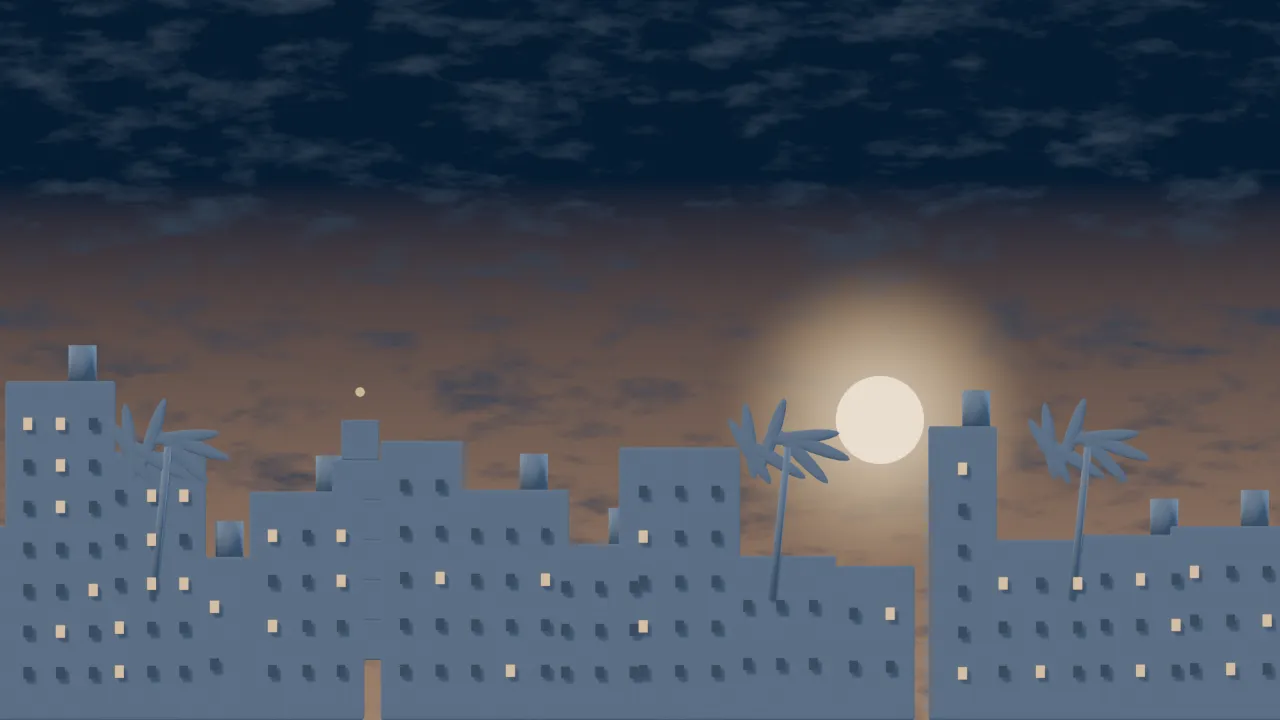
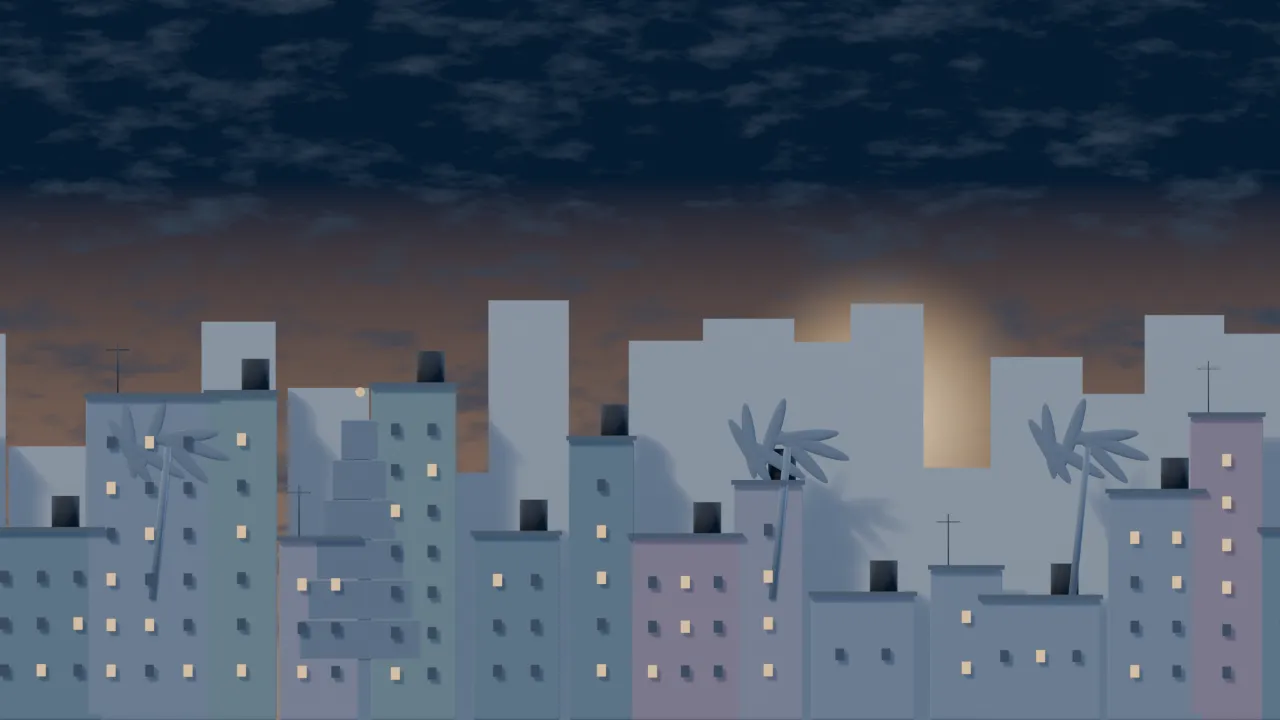
kitplat: closer camera (18 tiles), deeper monsoon skyline, scalloped awnings

Changed region(s): [[0.0, 0.3972, 1.0, 1.0], [0.0, 0.8556, 0.1562, 0.8861], [0.1562, 0.825, 0.1875, 0.8556]]

diff --git a/apps/web/src/games/kitplat/camera.ts b/apps/web/src/games/kitplat/camera.ts
@@ -4,7 +4,7 @@
  * arena). Heroes it cannot fit are reported as stragglers; the world bubbles or leashes them. Pure.
  */
 
-export const VIEW_W = 20;            // tiles across at zoom 1 (16:9)
+export const VIEW_W = 18;            // tiles across at zoom 1 (16:9)
 export const VIEW_H = VIEW_W * 9 / 16;
 export const MAX_ZOOM = 1.3;
 

diff --git a/tools/blender/kitplat/plat_scenery.py b/tools/blender/kitplat/plat_scenery.py
@@ -49,19 +49,29 @@ def monsoon_sky():
 
 def monsoon_far():
     col = haze("#5f6f86", 0.5)
+    tones = ["#6d7d94", "#7a7f96", "#687f8c", "#80788e", "#5f7488"]
     lit = "#ffcf8a"
+    # a far, paler row first, then the main skyline
+    for x0 in spread(18):
+        w, h = random.uniform(1.4, 2.6), random.uniform(5.5, 10.5)
+        rep(lambda x, w=w, h=h: P.box(haze("#8a96a8", 0.6), (x, 7.5, h / 2), (w, 1, h), bevel=0), [x0])
     xs = spread(14)
     for x0 in xs:
         w = random.uniform(1.6, 3.2)
         h = random.uniform(3.0, 8.5)
         seed = random.random()
+        tone = haze(random.choice(tones), 0.5)
 
-        def b(x, w=w, h=h, seed=seed):
+        def b(x, w=w, h=h, seed=seed, tone=tone):
             random.seed(int(seed * 1e6))
-            P.box(col, (x, 6, h / 2), (w, 1, h), bevel=0.02)
-            windows(x - w / 2 + 0.15, w - 0.3, 0.6, h - 1.2, 5.4, lit=lit, dark="#4a5870", chance=0.3, size=(0.22, 0.3))
-            if seed > 0.5:
-                P.cyl(col, (x + w * 0.2, 6, h + 0.45), 0.35, 0.9, verts=16)
+            P.box(tone, (x, 6, h / 2), (w, 1, h), bevel=0.02)
+            P.box(haze("#4f5d70", 0.4), (x, 5.9, h + 0.06), (w + 0.12, 1.1, 0.12), bevel=0)
+            windows(x - w / 2 + 0.15, w - 0.3, 0.6, h - 1.2, 5.4, lit=lit, dark="#4a5870", chance=0.42, size=(0.22, 0.3))
+            if seed > 0.45:
+                P.cyl(haze("#2f3540", 0.3), (x + w * 0.2, 6, h + 0.45), 0.35, 0.9, verts=16)
+            if seed < 0.4:
+                P.cyl(haze("#3a4250", 0.3), (x - w * 0.25, 6, h + 0.7), 0.02, 1.4, verts=6)
+                P.cyl(haze("#3a4250", 0.3), (x - w * 0.25, 6, h + 1.2), 0.012, 0.6, rot=(0, 90, 0), verts=6)
         rep(b, [x0])
     # a temple tower and palms on the skyline
     def gopuram(x):

diff --git a/tools/blender/kitplat/plat_world.py b/tools/blender/kitplat/plat_world.py
@@ -133,10 +133,11 @@ class Monsoon(World):
         x0 = -0.1 if side in "ls" else 0
         x1 = 1.1 if side in "rs" else 1
         xa, xb = (x0 if side in "ls" else -2), (x1 if side in "rs" else 3)
-        ob = P.box(self.m_awn, ((xa + xb) / 2, -0.1, 0.95), (xb - xa, 1.0, 0.07), rot=(-12, 0, 0), bevel=0.01)
+        ob = P.box(self.m_awn, ((xa + xb) / 2, -0.1, 0.96), (xb - xa, 1.0, 0.07), rot=(-12, 0, 0), bevel=0.01)
         P.bake(ob)
-        for x in wrapped([0.125 + 0.25 * i for i in range(16)], xa, xb):
-            P.bake(P.cyl(self.m_awn, (x, -0.6, 0.86), 0.125, 0.04, rot=(90, 0, 0), verts=16))
+        bx(self.m_awn, xa, xb, 0.84, 0.99, y0=-0.66, y1=-0.6, bevel=0.005)          # the valance
+        for x in wrapped([0.125 + 0.25 * i for i in range(16)], xa, xb):             # scallops hang below it
+            P.bake(P.cyl(self.m_awn, (x, -0.62, 0.84), 0.125, 0.02, rot=(90, 0, 0), verts=20))
         P.bake(P.cyl(self.m_metal, ((xa + xb) / 2, -0.55, 0.99), 0.035, xb - xa, rot=(0, 90, 0)))
         if side in "ls":
             P.bake(P.cyl(self.m_metal, (0.0, -0.3, 0.6), 0.03, 0.8, rot=(0, 25, 0)))
